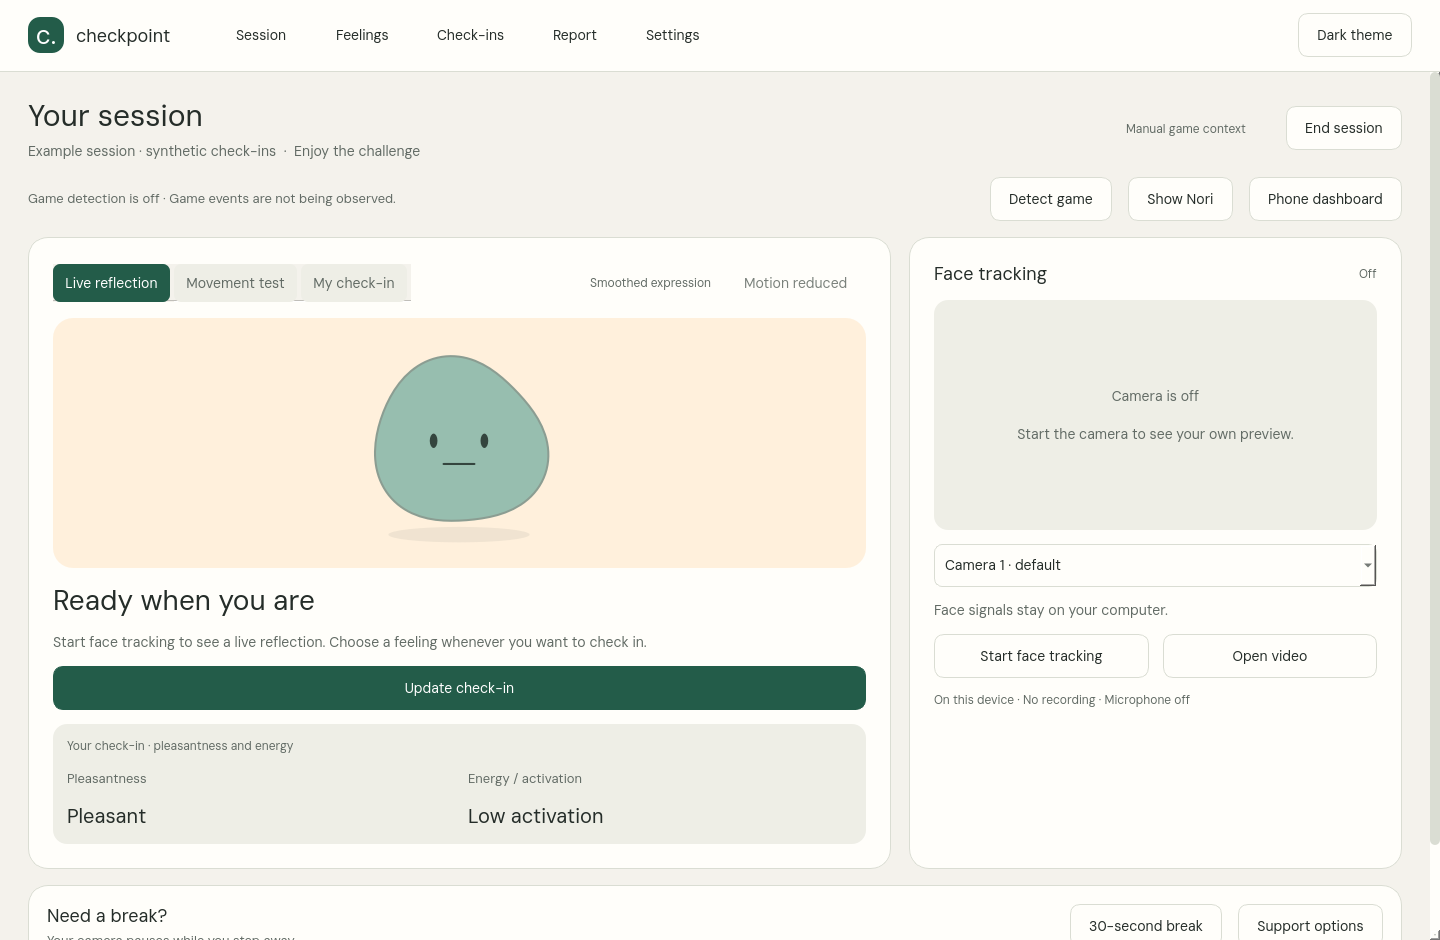
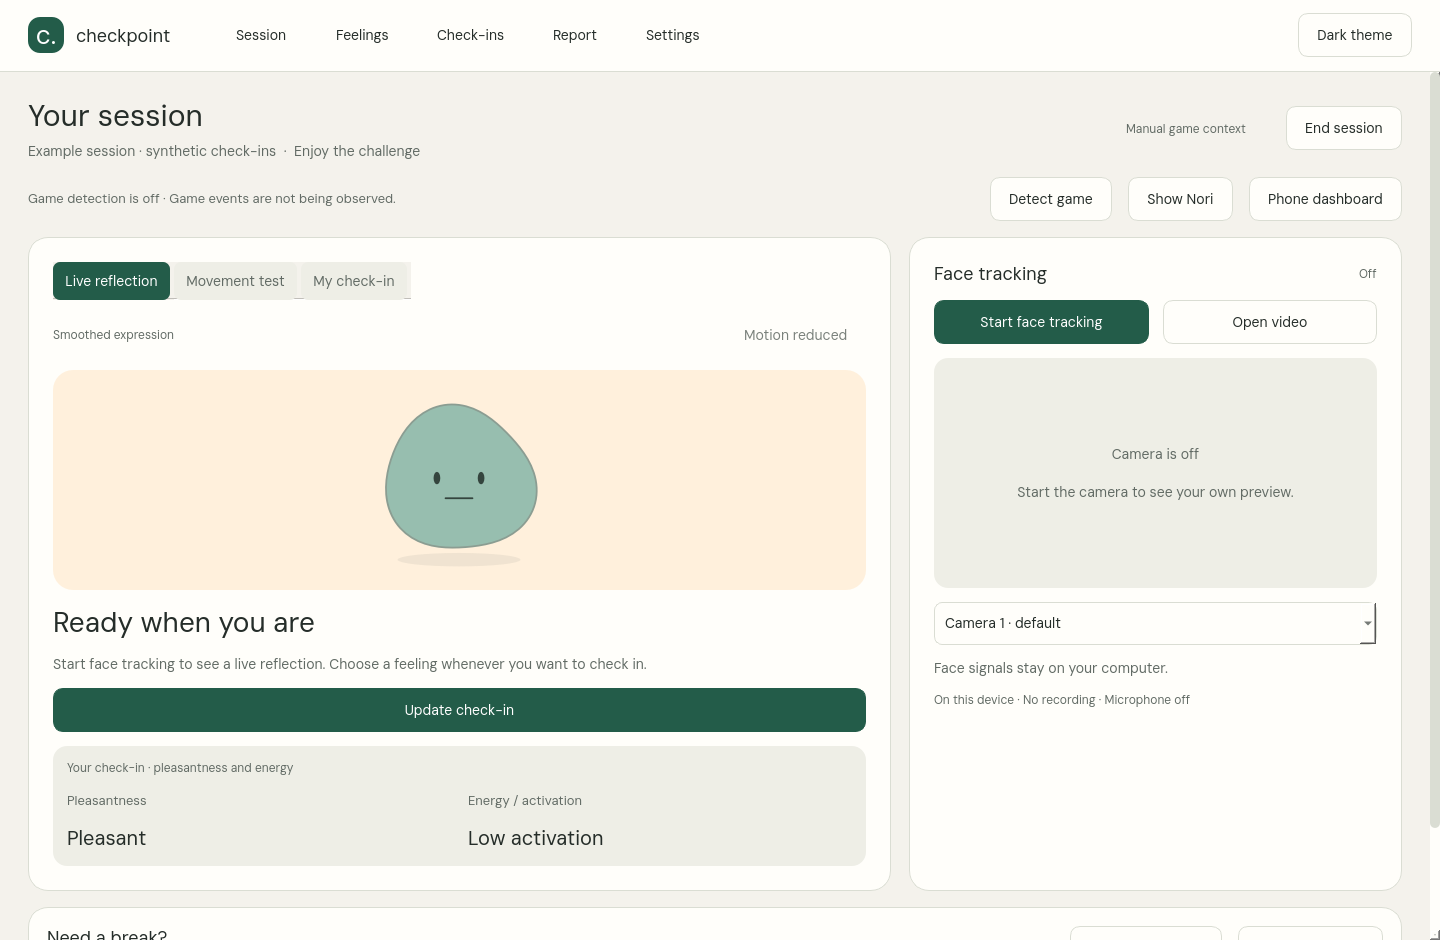
Keep all reflection tabs and start tracking visible in smaller Windows layouts

diff --git a/topics/checkpoint/app/checkpoint/app.py b/topics/checkpoint/app/checkpoint/app.py
@@ -251,11 +251,13 @@ class MainWindow(QMainWindow):
     def build_body(self,mode):
         body=QWidget();row=QHBoxLayout(body);row.setContentsMargins(0,0,0,0);row.setSpacing(18)
         state_panel,sl=panel(padding=24);sl.setSpacing(14)
-        header=QHBoxLayout();selector=QTabBar();[selector.addTab(name) for name in ['Live reflection','Movement test','My check-in']];selector.setExpanding(False);selector.setAccessibleName('Card source');selector.currentChanged.connect(self.select_card_source);self.view_selectors.append(selector);header.addWidget(selector);header.addStretch();source=label('',12,True);self.state_labels.append((source,'source'));header.addWidget(source);motion=button('Pause animation',self.toggle_motion);motion.setMinimumHeight(36);motion.setObjectName('navButton');header.addWidget(motion);self.motion_controls.append(motion)
+        header=QHBoxLayout();selector=QTabBar();[selector.addTab(name) for name in ['Live reflection','Movement test','My check-in']];selector.setExpanding(False);selector.setAccessibleName('Card source');selector.currentChanged.connect(self.select_card_source);self.view_selectors.append(selector);header.addWidget(selector);header.addStretch()
+        toolbar=QHBoxLayout();source=label('',12,True);self.state_labels.append((source,'source'));toolbar.addWidget(source,1)
+        motion=button('Pause animation',self.toggle_motion);motion.setMinimumHeight(36);motion.setObjectName('navButton');toolbar.addWidget(motion);self.motion_controls.append(motion)
         if mode==0:self.motion_button=motion
-        sl.addLayout(header)
-        stage,stage_layout=panel('artStage',10);stage.setMinimumHeight(240)
-        em=NoriWidget(230,mode=mode);self.emblems.append(em)
+        sl.addLayout(header);sl.addLayout(toolbar)
+        stage,stage_layout=panel('artStage',10);stage.setMinimumHeight(210)
+        em=NoriWidget(200,mode=mode);self.emblems.append(em)
         stage_layout.addWidget(em,alignment=Qt.AlignmentFlag.AlignCenter);sl.addWidget(stage,1)
         title=label('',28,bold=True);desc=label('',14,True)
         self.state_labels.extend([(title,'title'),(desc,'description')]);sl.addWidget(title);sl.addWidget(desc)
@@ -264,13 +266,14 @@ class MainWindow(QMainWindow):
         sl.addWidget(check)
         dimensions,dl=panel('stateCard',14);dl.addWidget(label('Your check-in · pleasantness and energy',12,True));self.add_dimensions(dl);sl.addWidget(dimensions);row.addWidget(state_panel,7)
         camera,cl=panel(padding=24);cl.setSpacing(14);ch=QHBoxLayout();ch.addWidget(label('Face tracking',18,bold=True),1);status=label('',12,True);self.state_labels.append((status,'capture'));ch.addWidget(status);cl.addLayout(ch)
+        actions=QHBoxLayout();capture=button('Start face tracking',self.toggle_camera,True);self.camera_controls.append(capture);actions.addWidget(capture,1);file=button('Open video',self.open_video);self.file_controls.append(file);actions.addWidget(file,1);cl.addLayout(actions)
         preview=VideoPreview();preview.setMinimumSize(300,230);preview.setMaximumHeight(260);self.preview_widgets.append(preview);cl.addWidget(preview)
         devices=QComboBox();devices.setAccessibleName('Camera device');devices.addItems(['Camera 1 · default']+[f'Camera {i+1}' for i in range(1,10)]);devices.currentIndexChanged.connect(self.select_camera);self.camera_selectors.append(devices);cl.addWidget(devices)
         feedback=label('',13,True);self.camera_messages.append(feedback);cl.addWidget(feedback)
         track=QCheckBox('Track my face');track.setAccessibleName('Track expressions');track.toggled.connect(self.toggle_expression_tracking);self.expression_controls.append(track);track.hide()
         neutral=button('Set my neutral face',self.calibrate_neutral);self.neutral_controls.append(neutral);cl.addWidget(neutral)
         details=button('Inspect face signals',self.show_face_details);self.detail_controls.append(details);cl.addWidget(details)
-        cl.addWidget(label('Face signals stay on your computer.',14,True));actions=QHBoxLayout();capture=button('Start face tracking',self.toggle_camera);self.camera_controls.append(capture);actions.addWidget(capture,1);file=button('Open video',self.open_video);self.file_controls.append(file);actions.addWidget(file,1);cl.addLayout(actions)
+        cl.addWidget(label('Face signals stay on your computer.',14,True))
         if mode==0:self.capture_control=capture
         cl.addWidget(label('On this device · No recording · Microphone off',12,True));cue=label('',12,True);cue.setVisible(False);self.state_labels.append((cue,'cue'));cl.addWidget(cue);cl.addStretch();row.addWidget(camera,4)
         return body

diff --git a/topics/checkpoint/app/scripts/smoke_windows_tracking.py b/topics/checkpoint/app/scripts/smoke_windows_tracking.py
@@ -7,6 +7,7 @@ from ctypes import wintypes
 import numpy as np
 from urllib.request import Request,urlopen
 from PySide6.QtTest import QTest
+from PySide6.QtCore import QPoint
 from checkpoint.app import create_application, MainWindow
 from checkpoint.runtime import Cue
 import checkpoint.gameplay as game_module
@@ -15,6 +16,12 @@ ROOT = Path(__file__).resolve().parents[1]
 app = create_application([])
 window = MainWindow(no_setup=True, data_dir=ROOT / 'build/smoke-history')
 window.show(); window.raise_(); window.activateWindow(); QTest.qWait(400)
+tabs=window.view_selectors[0]
+assert tabs.tabRect(2).right()<tabs.width(),'Card tabs are clipped in the actual Windows viewport'
+start=window.camera_controls[0];position=start.mapTo(window,QPoint())
+assert position.y()+start.height()<window.height(),'Start tracking is below the initial viewport'
+assert position.y()<window.preview_widgets[0].mapTo(window,QPoint()).y(),'Start tracking must appear before preview'
+
 window.session.check_in('calm', .6, -.4)
 window.session.experimental_analysis = True
 generation = window.session.start_capture('camera')
@@ -98,7 +105,7 @@ finally:
     game_module.active_game = original
 window.pause(); assert window.emblems[0].current_state is None
 window.close(); app.processEvents()
-result = {'windows_native_model_primary_and_conflict_fixture':'passed','windows_native_responsive_reflection_fixture':'passed','checkin_does_not_pin_live_reflection':'passed','windows_native_live_card_fixture': 'passed', 'windows_gdi_own_window_fixture': 'passed',
+result = {'windows_native_initial_controls_visible':'passed','windows_native_model_primary_and_conflict_fixture':'passed','windows_native_responsive_reflection_fixture':'passed','checkin_does_not_pin_live_reflection':'passed','windows_native_live_card_fixture': 'passed', 'windows_gdi_own_window_fixture': 'passed',
           'reject_wrong_window': 'passed', 'pause_clears_live_card': 'passed',
           'player_report_preserved': 'passed','overlay_no_focus_steal':'passed','overlay_native_clickthrough_style':'passed',
           'raw_input_registration':'passed','face_landmarker_native_load':'passed','hsemotion_inference':'passed','phone_loopback_api':'passed',

diff --git a/topics/checkpoint/app/checkpoint/version.py b/topics/checkpoint/app/checkpoint/version.py
@@ -1,2 +1,2 @@
 APP_VERSION = '0.5.0'
-RELEASE_TAG = 'checkpoint-v0.5.0-preview.2'
+RELEASE_TAG = 'checkpoint-v0.5.0-preview.3'

diff --git a/topics/checkpoint/app/README.md b/topics/checkpoint/app/README.md
@@ -2,7 +2,7 @@
 
 Nori is a local Windows gaming companion. **Live reflection** provides smoothed expression feedback, a separate recent trend and a flat neutral fallback. **Movement test** inspects the face/hand tracker; **My check-in** records your own feeling and CMA. Check-ins never pin the live character. [Research, model comparisons and rebuild plan](docs/REBUILD-RESEARCH-AND-PLAN.md).
 
-Already on 0.3? Use **Settings → Check for updates → Update and restart**. The compatible app package includes the new hand model without replacing the native runtime. **[Full Windows download](https://github.com/AnujR17/Chatgpt-Environment/releases/download/checkpoint-v0.5.0-preview.2/Checkpoint-Windows-Preview.zip)** · [Release](https://github.com/AnujR17/Chatgpt-Environment/releases/tag/checkpoint-v0.5.0-preview.2)
+Already on 0.3? Use **Settings → Check for updates → Update and restart**. The compatible app package includes the new hand model without replacing the native runtime. **[Full Windows download](https://github.com/AnujR17/Chatgpt-Environment/releases/download/checkpoint-v0.5.0-preview.3/Checkpoint-Windows-Preview.zip)** · [Release](https://github.com/AnujR17/Chatgpt-Environment/releases/tag/checkpoint-v0.5.0-preview.3)
 
 For a fresh install, extract the full ZIP and run **Start Checkpoint.cmd**. Choose **Start face tracking** to enable local analysis and open the camera in one action. The previous 20-second window and 30-second hold are removed. Clean sustained signals changed poses in 0.5–0.9 seconds in deterministic replay; actual camera latency and recognition vary. **Open video** tests a local clip. **Show Nori** enables the frameless companion. Hold **Ctrl+Alt and drag**, then release to lock its position. **Phone dashboard** pairs on the same trusted private Wi-Fi.
 

diff --git a/topics/checkpoint/HANDOFF.md b/topics/checkpoint/HANDOFF.md
@@ -46,3 +46,6 @@ User rejects recognition, behaviour and UI; the old long hold proposal is supers
 Default Live reflection uses 1€ feature filtering, three-sample/0.45s dwell (neutral0.65), no30s hold, separate4s trend, pretrained category support and authored poses with subtle laugh/teeth. Check-ins never pin the live face. Movement test and My check-in are visible tabs. Start face tracking opts into analysis in one action. Capture and inference run in separate threads with one latest pending frame; results older than1s are withheld. No new runtime/model dependency. Phone receives reflected state/trend, report stays self-reportedCMA.
 
 Local suite:98passed,1Windows-onlyskip. Browser390x844 checks default reflection/check-in separation plus movement/PDF/disconnection. Synthetic screenshot app/artifacts/nori-responsive-reflection.png. Replay at8Hz:smile0.50s,tense0.50s,neutralreturn0.875s; excludescoldstart/camera/animation. Prepared release0.5.0-preview.2 (preview.1 withdrawn after an additional video check exposed the feature-rules/model conflict); Windows native/restart/rollback/publicdownload checks must finish before claiming published. Work entirelytopic/checkpoint.
+
+
+Preview.2 Windows run42273632398 passed and public full/small assets were verified, including all42appfiles and actual OTA staging. Full243496113bytes SHA6da517792222abcb4f90d0ba6e8a61a10aa815bde2b96b715ed8a9488ad73cab; small6141788bytes SHA44fb2a85f8a237508877a22a68bb0332d8c5987c624c14f87710c98a11cee0e9,80payloadfiles. Actual Windows screenshot then exposed clipped tabs at1024px; prepared preview.3 UI puts tabs on their own row and Start tracking before the preview. Local1024×768asserts/render pass; finalWindows/publicrelease checks pending.

diff --git a/topics/checkpoint/app/docs/RELEASE-NOTES.md b/topics/checkpoint/app/docs/RELEASE-NOTES.md
@@ -2,7 +2,7 @@
 
 The slow 20-second observation window and 30-second display lock are removed. Live reflection uses adaptive feature smoothing, short evidence dwell and a separate recent trend. Clean sustained signals changed poses in 0.5–0.9 seconds in deterministic replay; this excludes camera/model startup and is not a webcam latency guarantee. Manual check-ins no longer freeze the live character.
 
-Camera preview and model inference run independently, with one latest pending frame and stale-result rejection. Live reflection, Movement test and My check-in are visible tabs. Start face tracking enables analysis and opens the selected camera in one deliberate action. Model failure leaves the preview available.
+Camera preview and model inference run independently, with one latest pending frame and stale-result rejection. Live reflection, Movement test and My check-in are visible tabs on their own row. Start tracking is above the preview so it stays reachable in smaller windows. Start face tracking enables analysis and opens the selected camera in one deliberate action. Model failure leaves the preview available.
 
 Fresh confident pretrained scores now drive default recognition; feature checks veto clear contradictions instead of replacing learned classes. Mouth width alone cannot be a smile; cheek/model support and conflicting signals are checked. Brow movement alone cannot establish anger. Authored Nori poses retain subtle laugh-like motion and visible-teeth variations. Ambiguity/occlusion returns to a flat neutral appearance with an explicit unclear label. This does not establish reliable eight-class recognition or 43 inferred emotions.
 

diff --git a/topics/checkpoint/app/docs/REBUILD-RESEARCH-AND-PLAN.md b/topics/checkpoint/app/docs/REBUILD-RESEARCH-AND-PLAN.md
@@ -58,3 +58,5 @@ Actual realtime processing of seven actor04 clips exercised camera-independent p
 An additional two-clip high-intensity smoke check exposed a conflicting happy-model/tense-geometry output and missed anger. This showed why rule-defined class prerequisites are a poor replacement for the learned classifier. The selected integration now uses a confident, fresh eight-class model result first. Geometry vetoes clear positive/negative contradictions and gates occlusion; when the model abstains, only supported smile/tense/resting configurations are reflected. A tense configuration without confident anger stays labelled as a visual pattern. The discarded first 0.5 preview is withdrawn; preview.2 includes this correction. This is a change in evidence ordering, not proof of improved population accuracy.
 
 After that correction, the same strong anger clip produced ten reflected tense-expression samples (the model's anger estimate), where the first integration produced none. The strong happy clip no longer produced the false tense fallback. This paired diagnostic check supports the specific integration fix; it is not a new recognition accuracy percentage. The reproducible smoke script includes both clips alongside the original seven normal-intensity clips.
+
+The downloaded preview.2 Windows screenshot exposed a 1024px layout defect: the third tab was clipped and Start tracking was too low. Preview.3 places tabs in their own row and tracking actions above the preview. Local 1024×768 and 1440px renders were inspected; the Windows fixture now checks tab bounds and initial action visibility.

diff --git a/topics/checkpoint/README.md b/topics/checkpoint/README.md
@@ -2,7 +2,7 @@
 
 The Windows app, transparent Nori desktop companion and local phone dashboard live on **topic/checkpoint**.
 
-**[Download the Windows app](https://github.com/AnujR17/Chatgpt-Environment/releases/download/checkpoint-v0.5.0-preview.2/Checkpoint-Windows-Preview.zip)** — extract the entire ZIP and run Start Checkpoint.cmd.
+**[Download the Windows app](https://github.com/AnujR17/Chatgpt-Environment/releases/download/checkpoint-v0.5.0-preview.3/Checkpoint-Windows-Preview.zip)** — extract the entire ZIP and run Start Checkpoint.cmd.
 
 [App, screenshots and pairing](app/README.md) · [Model/video research](app/docs/VIDEO-AND-MODEL-RESEARCH.md) · [Source list CSV](app/design/gameplay-video-shortlist.csv) · [Verification](RELEASE-VERIFICATION.json)
 
